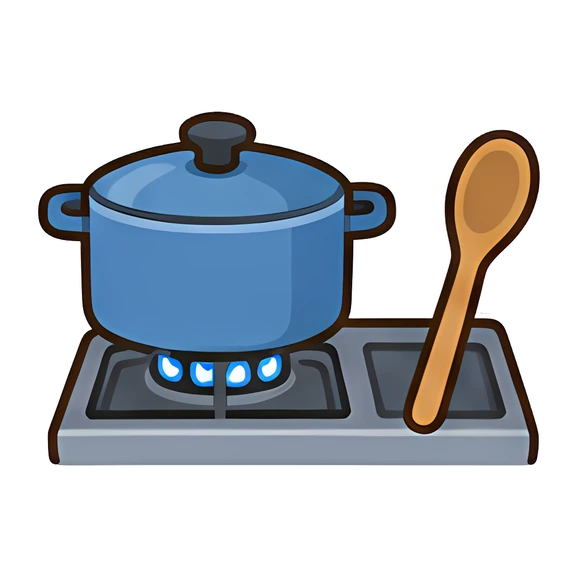
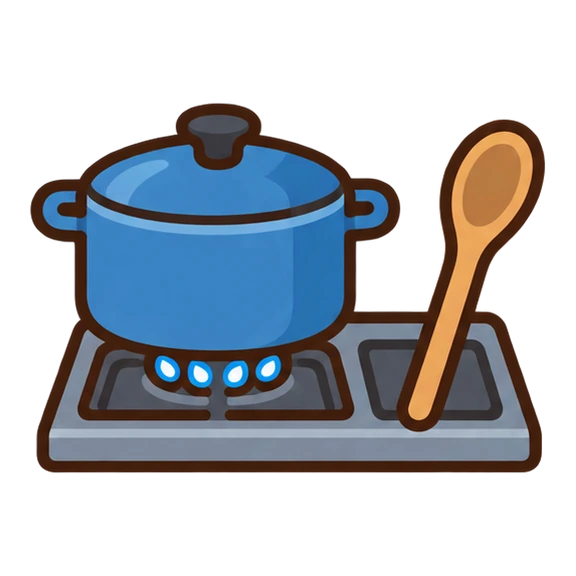
Use the sharp redrawn pictures on the site, share image and emails
Claude-Session: https://claude.ai/code/session_01DcAsRdVhoUAcaA1hRJqdpX

Changed region(s): [[0.0312, 0.1562, 0.9688, 0.8438]]

diff --git a/index.html b/index.html
@@ -19,7 +19,7 @@
 <link rel="icon" href="favicon.png">
 <link rel="preload" href="fonts/7b114e24f7.woff2" as="font" type="font/woff2" crossorigin>
 <link rel="stylesheet" href="fonts.css?v=1791385613">
-<link rel="stylesheet" href="site.css?v=1791405168">
+<link rel="stylesheet" href="site.css?v=1791412023">
 <script type="application/ld+json">
 [
  {
@@ -215,7 +215,7 @@
   <p data-e="e86" class="fine marks">iPhone is a trademark of Apple Inc. Android is a trademark of Google LLC. The Android robot is reproduced or modified from work created and shared by Google and used according to terms described in the Creative Commons 3.0 Attribution License.</p>
 </footer>
 
-<script data-e="e80" src="site.js?v=1791405168"></script>
+<script data-e="e80" src="site.js?v=1791412023"></script>
 <script data-goatcounter="https://boone.goatcounter.com/count" async src="//gc.zgo.at/count.js"></script>
 </body>
 </html>
